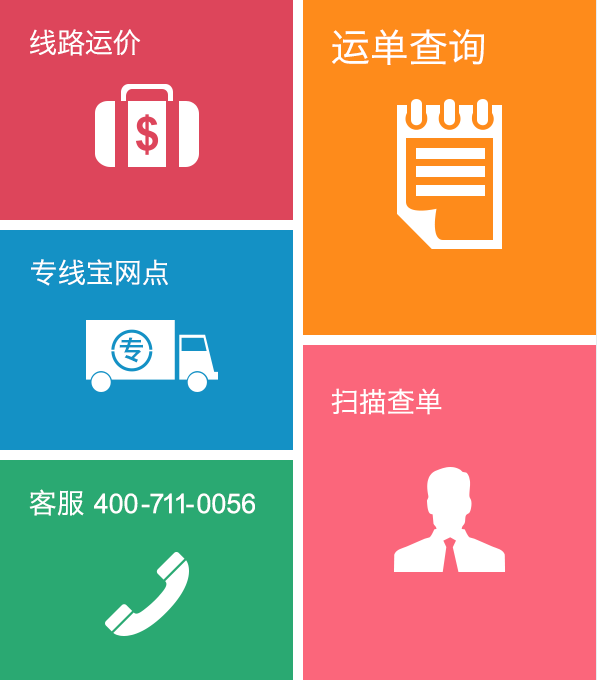
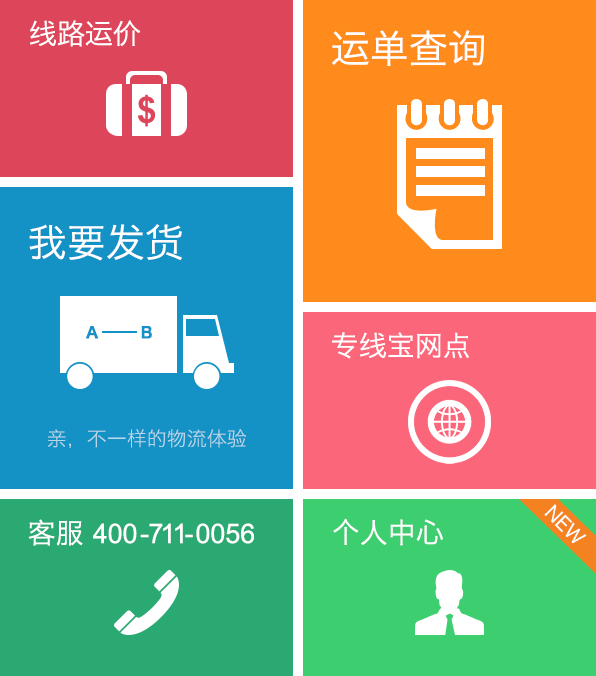
添加MK网络框架

diff --git a/ZhuanXB/ViewController.mm b/ZhuanXB/ViewController.mm
@@ -30,7 +30,7 @@
     topImgeView.contentMode = UIViewContentModeScaleAspectFit;//设置内容样式,通过保持长宽比缩放内容适应视图的大小,任何剩余的区域的视图的界限是透明的。
     topImgeView.image = [UIImage imageNamed:@"专线宝.png"];
     self.navigationItem.titleView =topImgeView;
-    
+    NSLog(@">>>   %@",[NSString stringWithFormat:@"%@/user/activityList",ZhuanXB_address]);
 //    //广告位
 //    _Topic = [[JCTopic alloc] initWithFrame:CGRectMake(0, 0, self.view.frame.size.width, 144)];
 //    _Topic.JCdelegate = self;
@@ -63,35 +63,35 @@
         [self.view addSubview:btnView];
         //线路运价
         UIButton *topBtn1 = [UIButton buttonWithType:UIButtonTypeCustom];
-        topBtn1.backgroundColor =[UIColor clearColor];
+        topBtn1.backgroundColor =[UIColor redColor];
         topBtn1.tag = 111;
         topBtn1.frame = CGRectMake(0, 0, 298/2, 177/2+20);
         [topBtn1 addTarget:self action:@selector(topBtnClick:) forControlEvents:UIControlEventTouchUpInside];
         [btnView addSubview:topBtn1];
         // 运单查询
         UIButton *topBtn2 = [UIButton buttonWithType:UIButtonTypeCustom];
-        topBtn2.backgroundColor =[UIColor clearColor];
+        topBtn2.backgroundColor =[UIColor cyanColor];
         topBtn2.tag = 222;
         topBtn2.frame = CGRectMake(topBtn1.frame.size.width+10/2-2, 0, 296/2, 293/2+20);
         [topBtn2 addTarget:self action:@selector(topBtnClick:) forControlEvents:UIControlEventTouchUpInside];
         [btnView addSubview:topBtn2];
         //专线宝网点
         UIButton *topBtn3 = [UIButton buttonWithType:UIButtonTypeCustom];
-        topBtn3.backgroundColor =[UIColor clearColor];
+        topBtn3.backgroundColor =[UIColor greenColor];
         topBtn3.tag = 333;
         topBtn3.frame = CGRectMake(topBtn1.frame.origin.x, topBtn1.frame.size.height+13/2, topBtn1.frame.size.width, 177/2+22);
         [topBtn3 addTarget:self action:@selector(topBtnClick:) forControlEvents:UIControlEventTouchUpInside];
         [btnView addSubview:topBtn3];
         //客服
         UIButton *topBtn4 = [UIButton buttonWithType:UIButtonTypeCustom];
-        topBtn4.backgroundColor =[UIColor clearColor];
+        topBtn4.backgroundColor =[UIColor redColor];
         topBtn4.tag = 444;
         topBtn4.frame = CGRectMake(topBtn1.frame.origin.x, topBtn1.frame.size.height+13/2+topBtn3.frame.size.height+13/2, topBtn1.frame.size.width, 177/2+22);
         [topBtn4 addTarget:self action:@selector(topBtnClick:) forControlEvents:UIControlEventTouchUpInside];
         [btnView addSubview:topBtn4];
         //扫描查单
         UIButton *topBtn5 = [UIButton buttonWithType:UIButtonTypeCustom];
-        topBtn5.backgroundColor =[UIColor clearColor];
+        topBtn5.backgroundColor =[UIColor redColor];
         topBtn5.tag = 555;
         topBtn5.frame = CGRectMake(topBtn2.frame.origin.x-2, topBtn2.frame.size.height+13/2, topBtn2.frame.size.width, 197/2+70);
         [topBtn5 addTarget:self action:@selector(topBtnClick:) forControlEvents:UIControlEventTouchUpInside];
